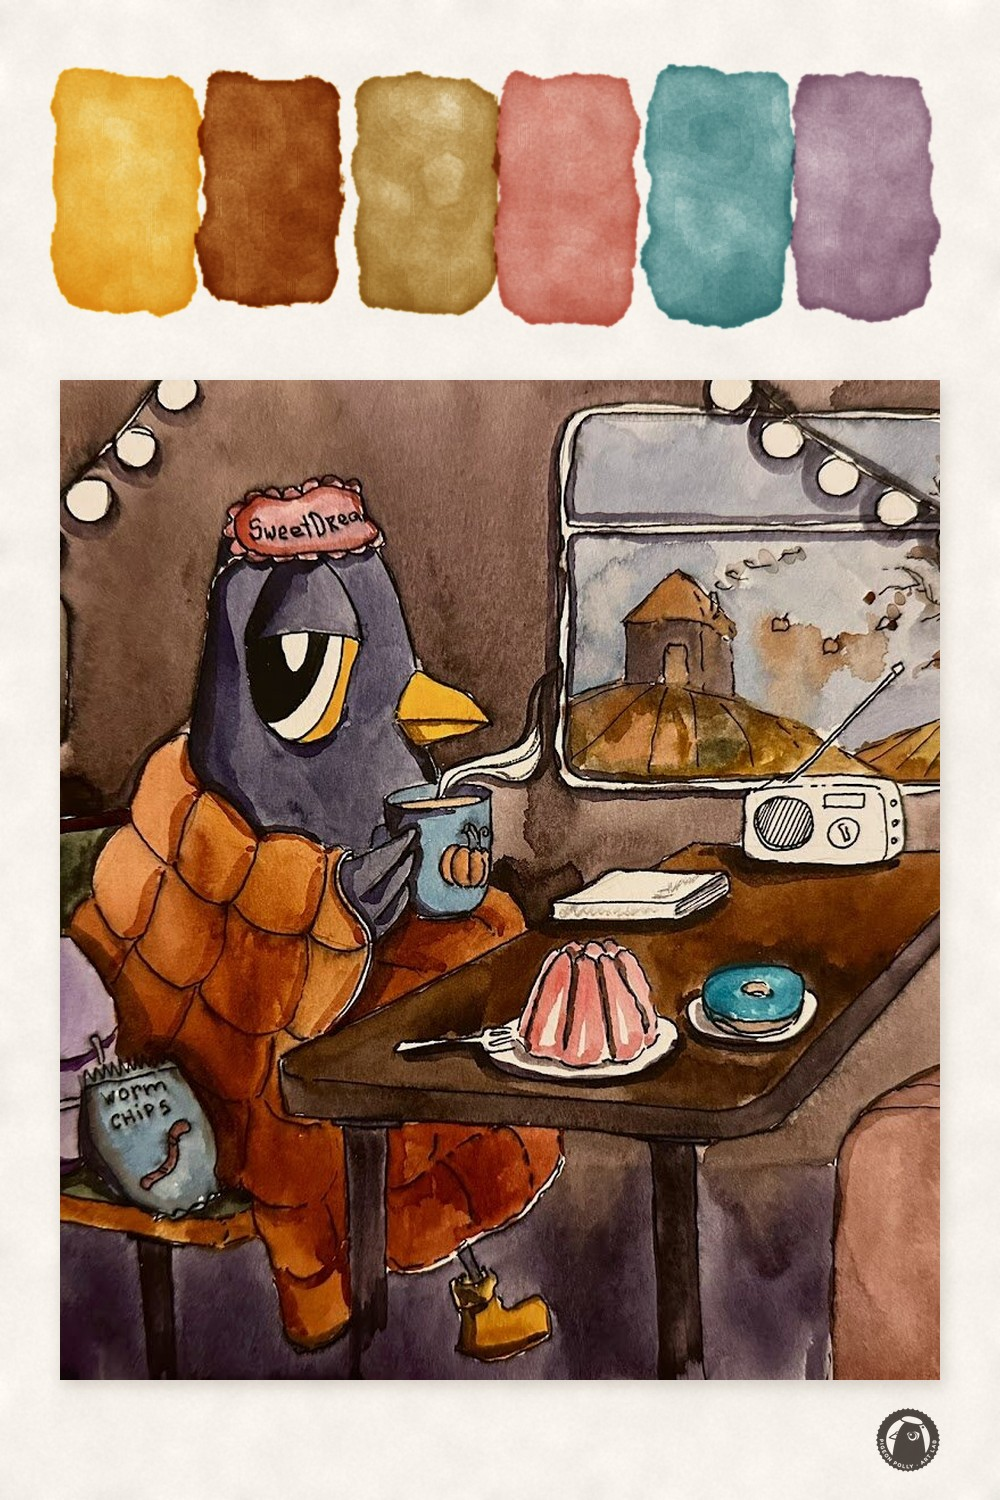
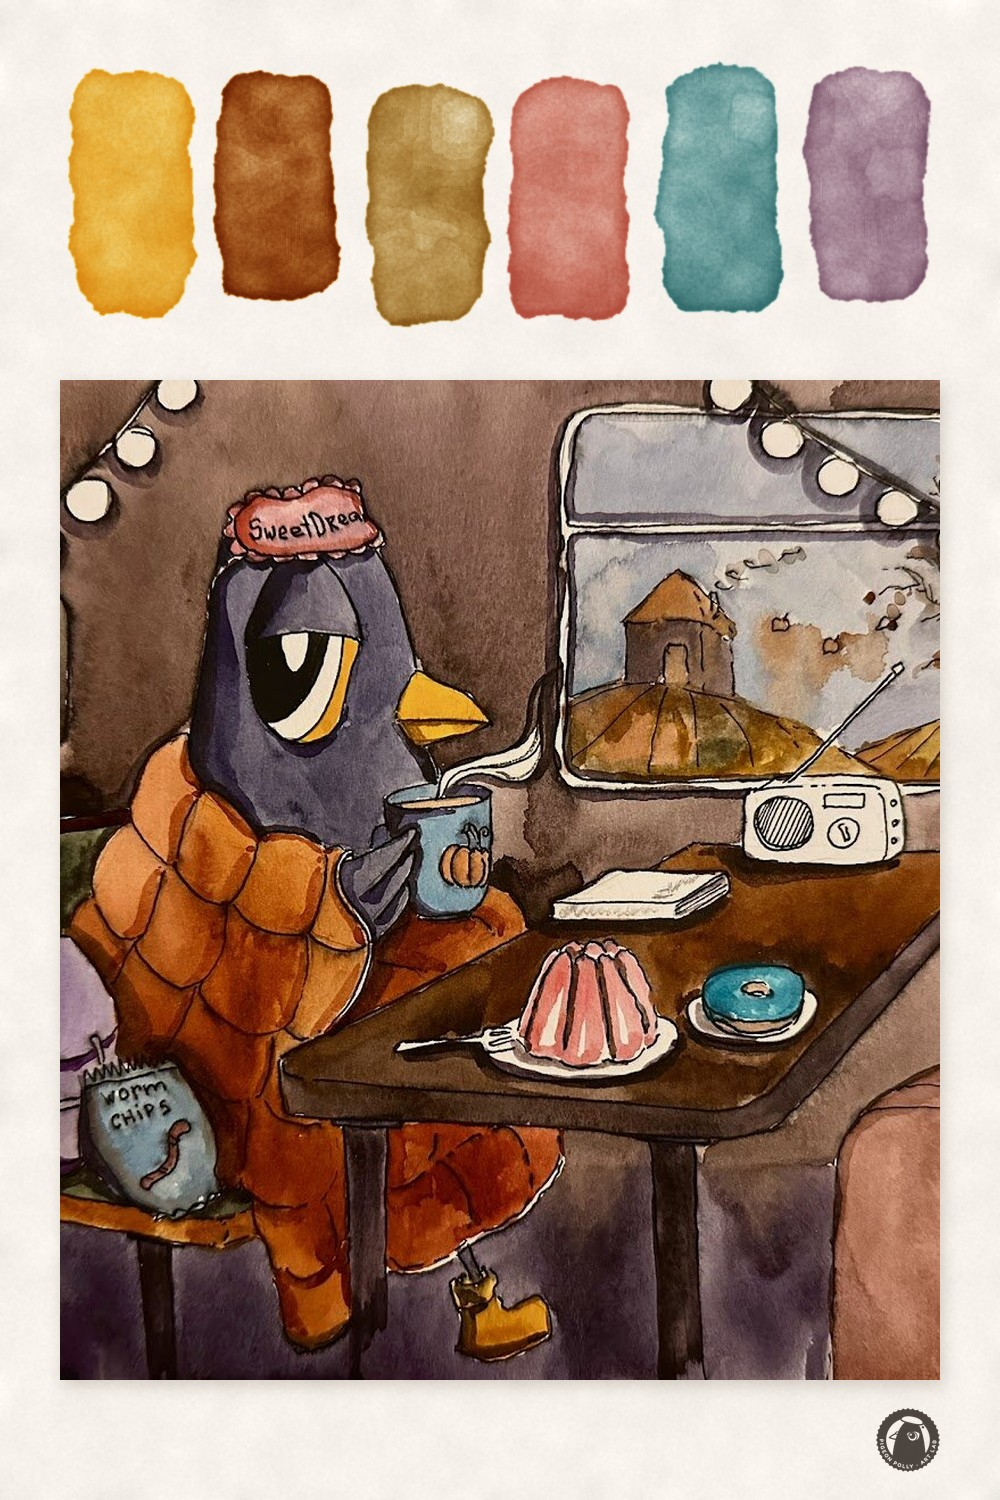
Пин 1309: мазки палитры с промежутками
Claude-Session: https://claude.ai/code/session_015qZXG616k3nb5TFhVQB6on

Changed region(s): [[0.031, 0.0307, 0.961, 0.2453], [0.558, 0.092, 0.589, 0.1227]]

diff --git a/tools/pins/wc_swatch.py b/tools/pins/wc_swatch.py
@@ -77,11 +77,11 @@ cols = [c['hex'] for c in data['colors']]
 n = len(cols)
 cw = W - 2 * M
 step = cw / n
-sw = int(step + 18)
+sw = int(step - 20)  # промежуток между мазками ~25 px
 for i, c in enumerate(cols):
-    x = int(M + i * step - 6 + rng.integers(-4, 5))
+    x = int(M + i * step + 10 + rng.integers(-3, 4))
     y = 70 + int(rng.integers(-8, 9))
-    paint(paper, c, x, y, sw - 14, 250 + int(rng.integers(-14, 15)))
+    paint(paper, c, x, y, sw, 250 + int(rng.integers(-14, 15)))
 
 out = Image.fromarray(np.clip(paper * 255, 0, 255).astype(np.uint8))
 
